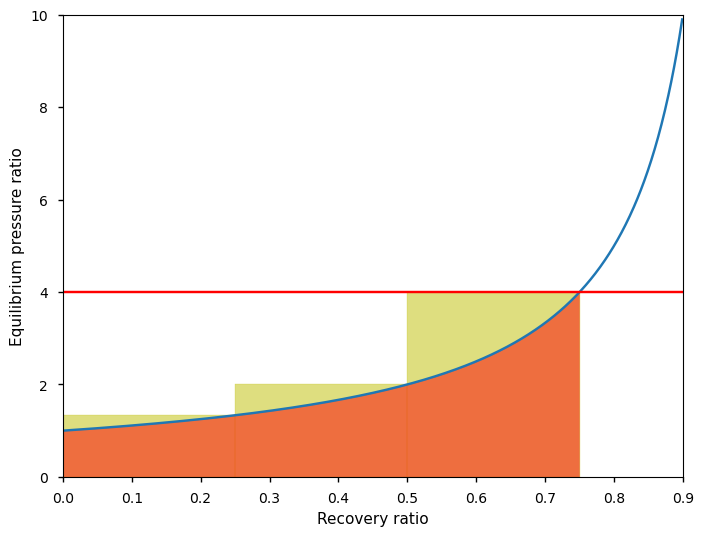
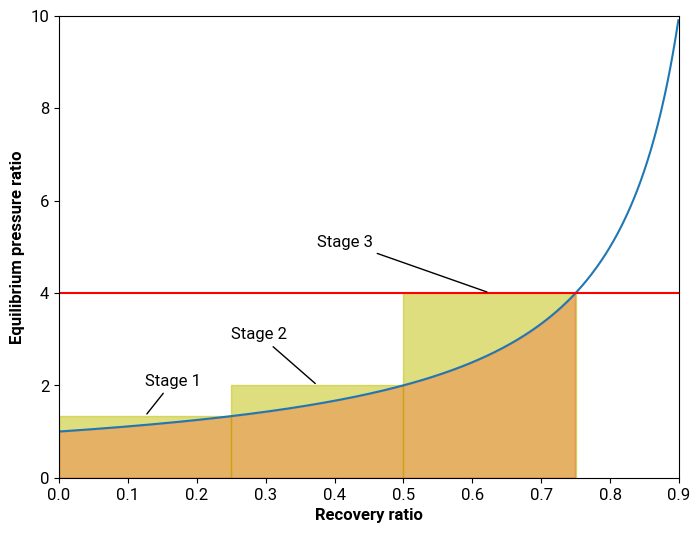
fix wasted energy graphs

diff --git a/content/posts/desalination.md b/content/posts/desalination.md
@@ -131,7 +131,7 @@ Plotting the pressure vs. water recovery on a graph, we get a relative sense of 
 
 This relationship is, in a sense, the "[rocket equation](https://www.nasa.gov/mission_pages/station/expeditions/expedition30/tryanny.html)" of desalination, because there's very few ways to actually improve it. The equilibrium curve is a fundamental property of the fluid, and so there's no technological solution that can change it. There's only two things we can do: change the target recovery ratio, or, just like with rockets, add staging by changing the number of "steps" we take to reach the final recovery fraction. 
 
-![Wasted energy from multistage RO](/img/desalination/ro_wasted_energy.png "3-stage desalination, with each stage progressively stepping up the pressure and accounting for 25% recovery. This approach is more energy efficient because more pressure is only applied “when it is needed”. ")
+![Wasted energy from multistage RO](/img/desalination/ro_wasted_energy_staged.png "3-stage desalination, with each stage progressively stepping up the pressure and accounting for 25% recovery. This approach is more energy efficient because more pressure is only applied “when it is needed”. ")
 
 Instead of having a single large reverse osmosis unit, we can place multiple smaller units in series, with pumps in between each unit to boost the pressure to the new equilibrium pressure. However, this increases design complexity and capital and maintenance costs, so there’s no free lunch: at some point the additional expenses will exceed any savings from efficiency gains.
 
